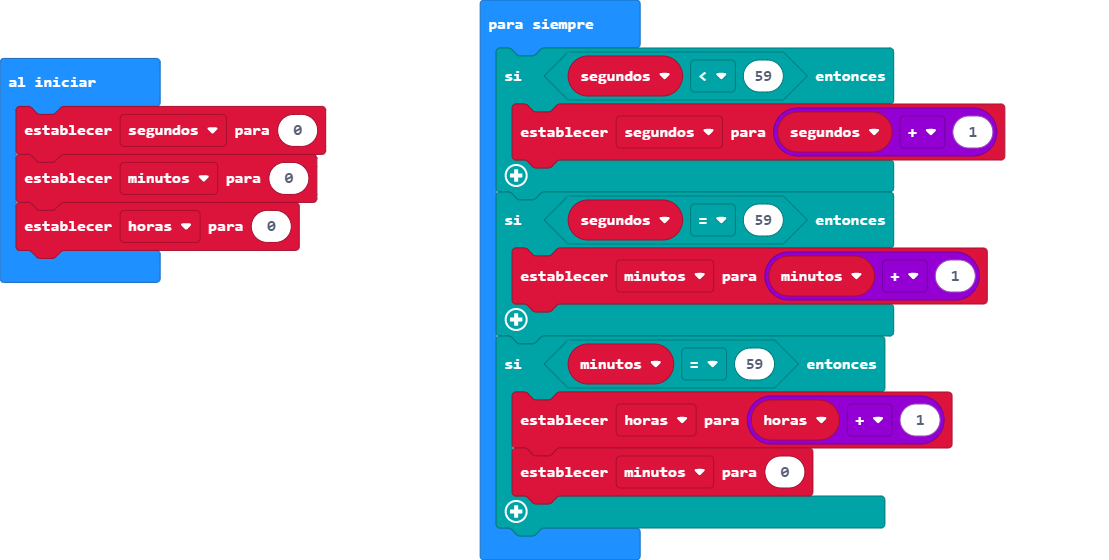
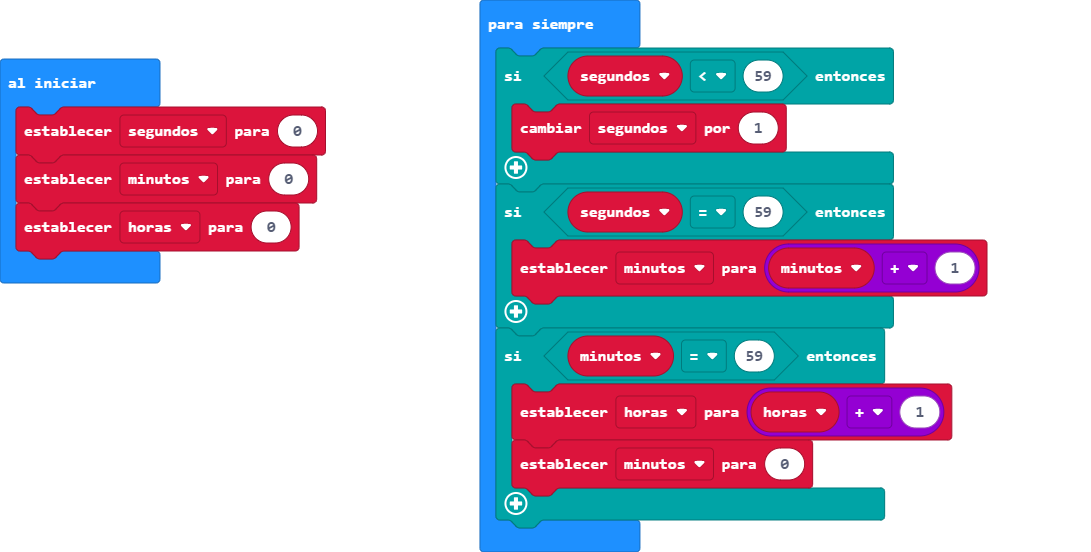
Actualizar main.blocks, main.ts

Changed region(s): [[0.4051, 0.0, 0.9349, 1.0], [0.0, 0.0924, 0.3116, 0.5236]]

diff --git a/main.ts b/main.ts
@@ -3,7 +3,7 @@ let minutos = 0
 let horas = 0
 basic.forever(function () {
     if (segundos < 59) {
-        segundos = segundos + 1
+        segundos += 1
     }
     if (segundos == 59) {
         minutos = minutos + 1
